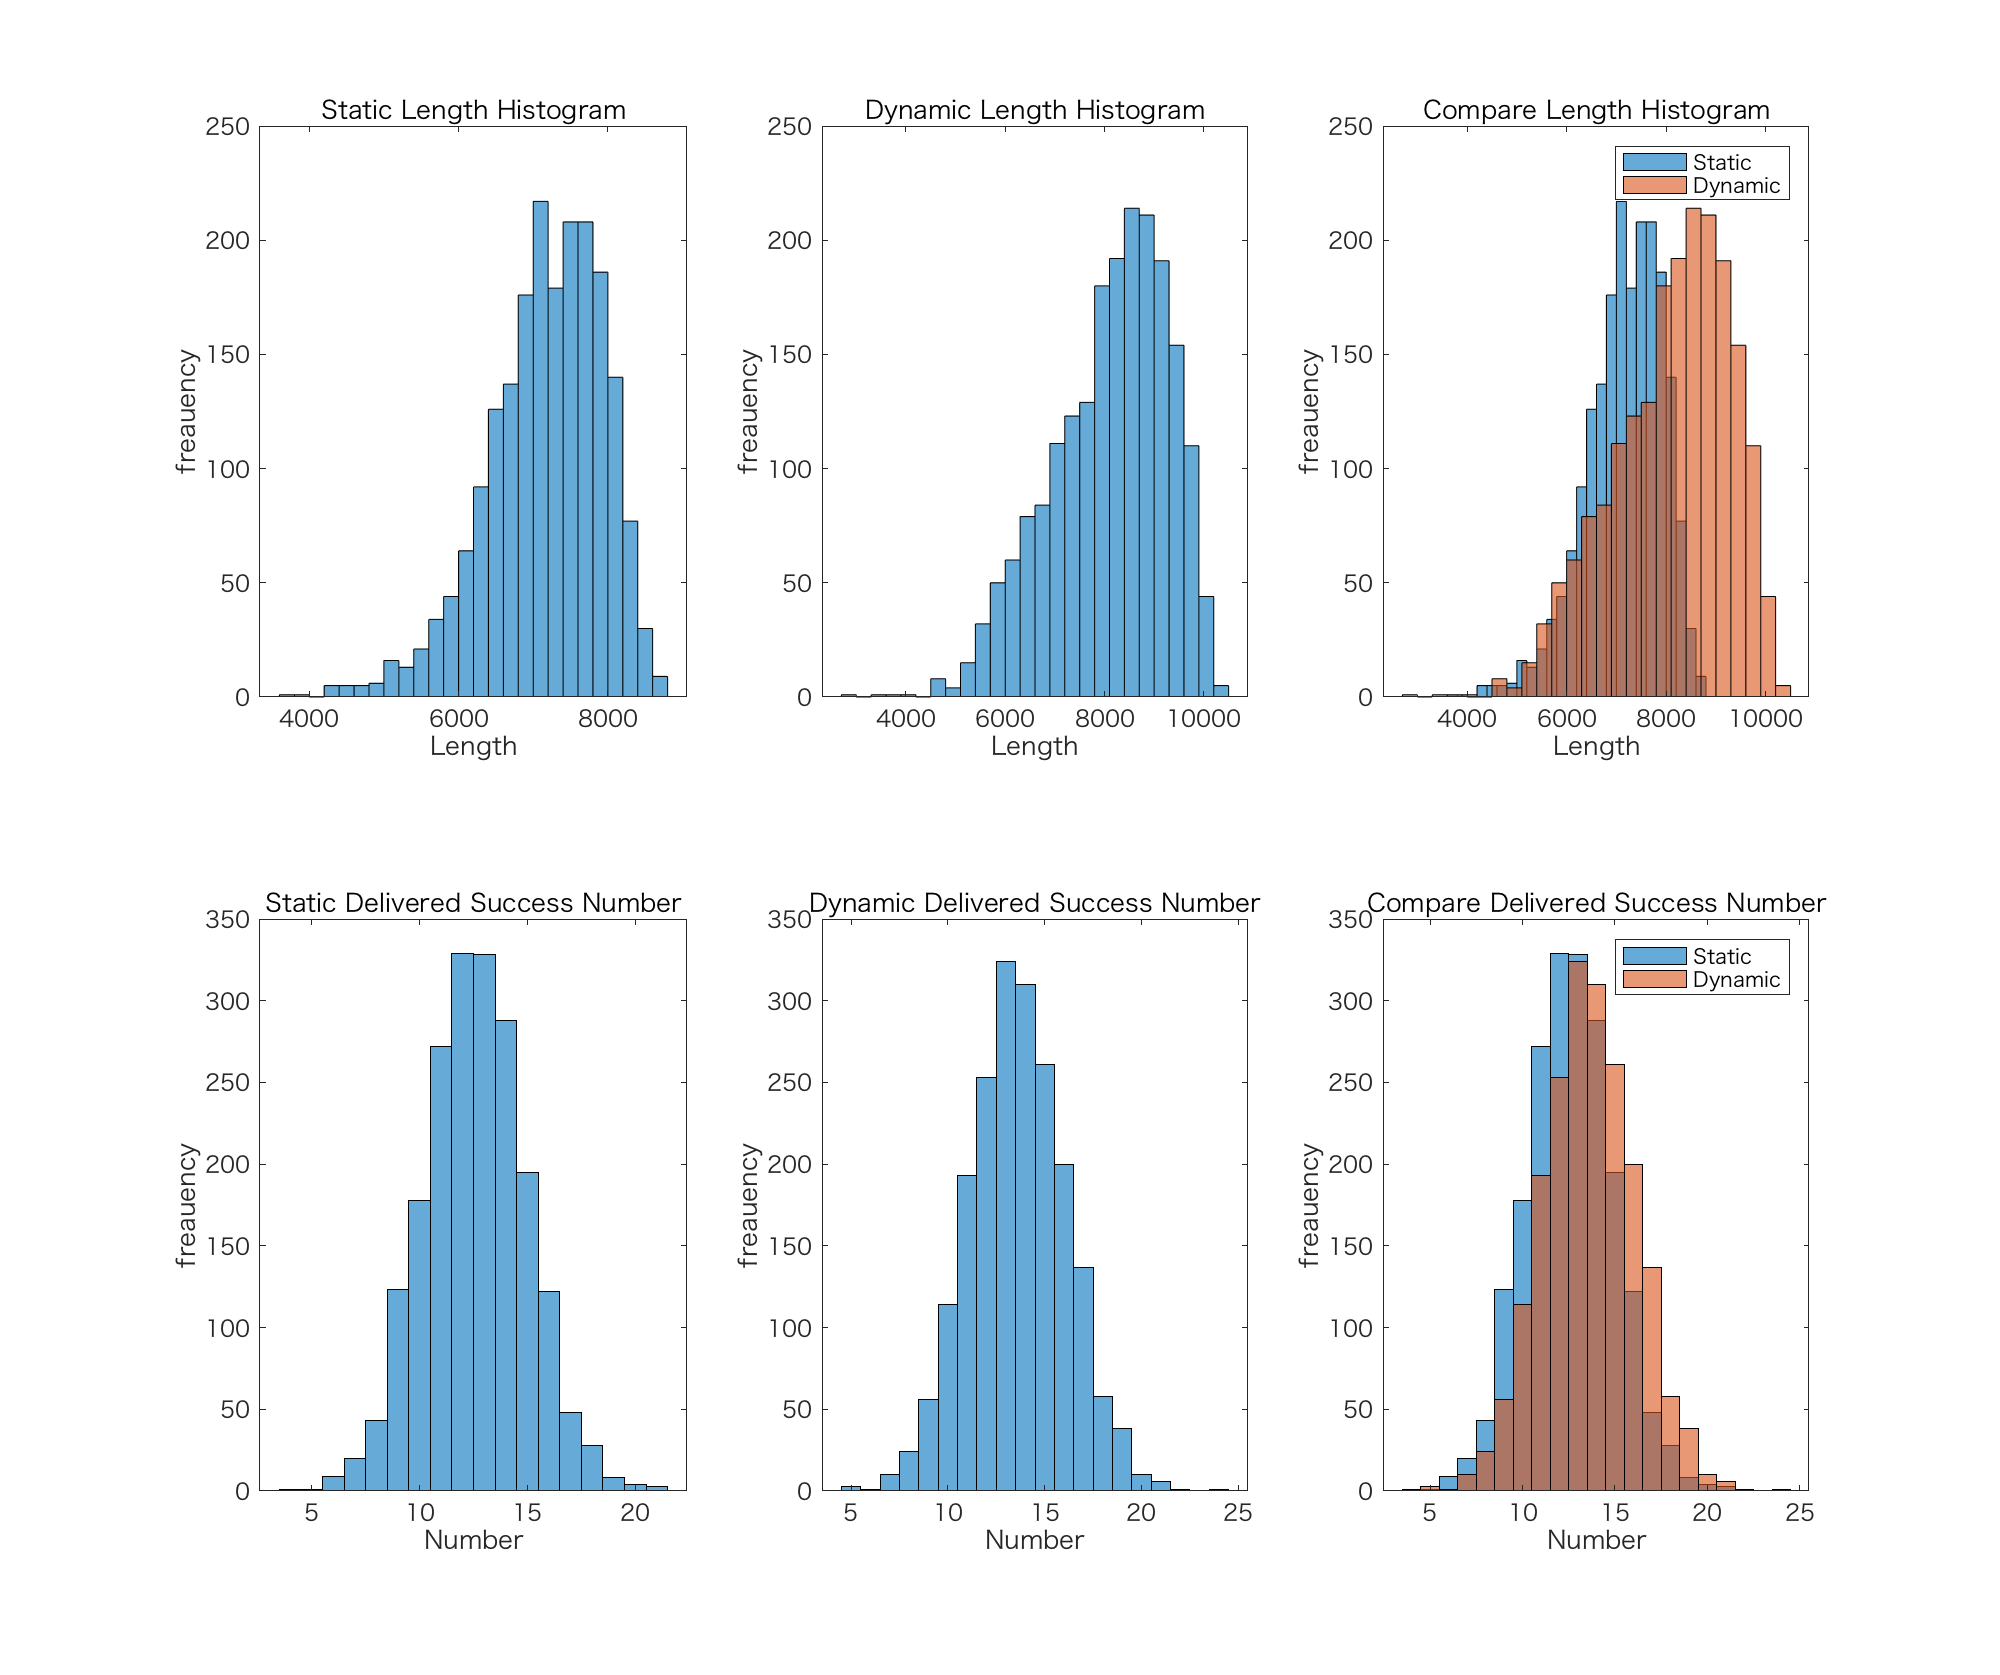
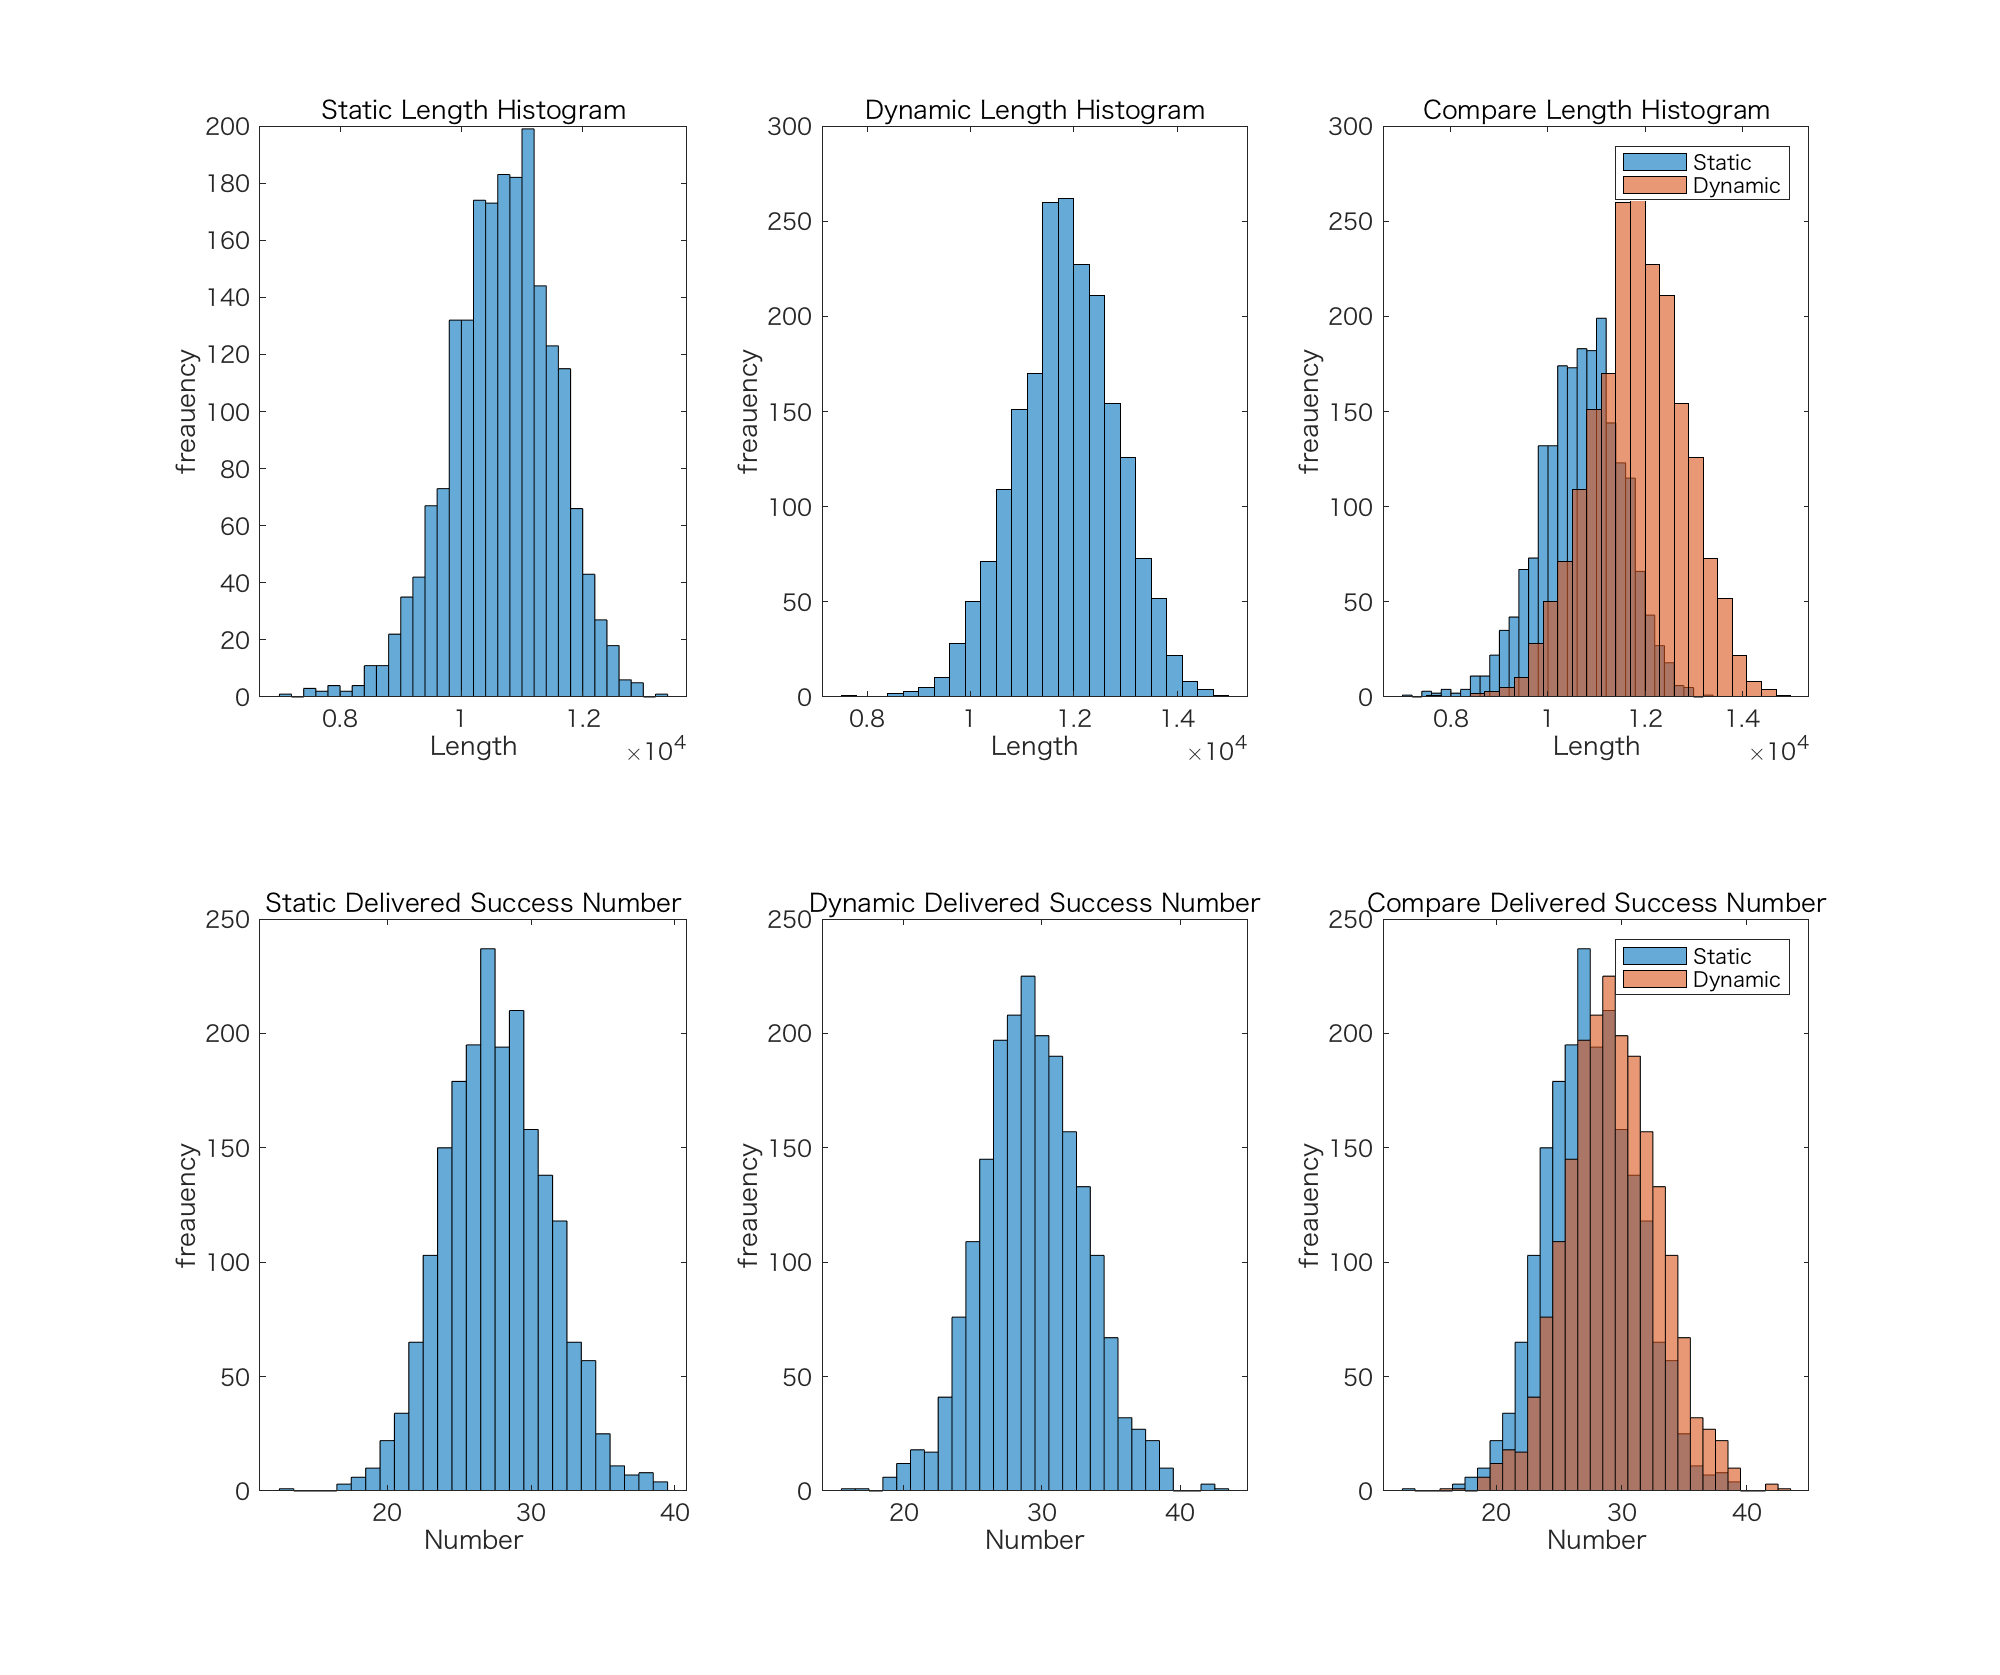
no message

diff --git a/main.m b/main.m
@@ -4,7 +4,7 @@ close all;
 tic;
 
 %% Problem Definition
-N=30;   % Number of House
+N=80;   % Number of House
 fix=0;  % 0/1 value. 0: generate random structure with N. 1: Use Previous Setting.
 
 model=CreateModel(fix,N);
@@ -12,7 +12,7 @@ model=CreateModel(fix,N);
 
 %% ACO Parameters
 
-par.MaxIt=300;      % Maximum Number of Iterations
+par.MaxIt=800;      % Maximum Number of Iterations
 
 par.nAnt=50;        % Number of Ants (Population Size)
 
@@ -29,7 +29,7 @@ par.gamma=1/4;        % Priori Probability Weight
 par.rho=0.1;       % Evaporation Rate
 
 step=numel(model.P(:,1));
-L=0.4*par.aL*model.n;
+L=0.5*par.aL*model.n;
 par.v=L/step;           % Vehicle Average Velocity [m/min] (For considering simulation time cost, we don't use real value, but we define this velocity to deliver the final package at 22:00)
 
 
@@ -66,6 +66,6 @@ RealTour.Sta = SkipTour(StaBestSol,HPTour.Sta);
 RealTour.Dyn = SkipTour(DynBestSol,HPTour.Dyn);
 PlotSkipSolution(StaBestSol,DynBestSol,RealTour,model)
 
-PlotHistogram(StaBestSol,DynBestSol,HPTour,model,par.aL,N)
+PlotHistogram(StaBestSol,DynBestSol,HPTour,model,par.aL)
 
 toc;

diff --git a/PlotHistogram.m b/PlotHistogram.m
@@ -1,4 +1,4 @@
-function PlotHistogram(StaBestSol,DynBestSol,HPTour,model,aL,N)
+function PlotHistogram(StaBestSol,DynBestSol,HPTour,model,aL)
 for i=1:2000
 RealTour.Sta = SkipTour(StaBestSol,HPTour.Sta);
 Cost.Sta = TourLength(RealTour.Sta,model);
@@ -57,19 +57,17 @@ saveas(gcf,[pwd '/output/CompareHistogram.png'])
 %% 
 for i=1:2000
 RealTour.Sta = SkipTour(StaBestSol,HPTour.Sta);
-Cost.Sta = RealCostFunction(RealTour.Sta,model,aL,N);
+Cost.Sta = RealCostFunction(RealTour.Sta,model,aL);
 RealTour.Dyn = SkipTour(DynBestSol,HPTour.Sta);
-Cost.Dyn = RealCostFunction(RealTour.Dyn,model,aL,N);
+Cost.Dyn = RealCostFunction(RealTour.Dyn,model,aL);
 h(1,i)=Cost.Dyn/Cost.Sta;
 end
 M=mean(h);
 V=var(h);
 S=skewness(h);
-disp(M);
-disp(V);
-disp(S);
 figure
 hist = histogram(h);
+title({'Ratio  Dynamic/Static Cost ';strcat('Mean: ',num2str(M),' Variance: ',num2str(V),' Skewness: ',num2str(S))})
 hist.Normalization = 'probability';
 
 

diff --git a/PlotCompare.m b/PlotCompare.m
@@ -31,7 +31,9 @@ a4=subplot(2,2,4);
 hold on;
 plot(sort(HPTour.Dyn,'descend'),'LineWidth',2);
 plot(sort(HPTour.Sta,'descend'),'LineWidth',2);
-title('Home-Probability')
+title({'Home-Probability';...
+    strcat(' Dynamic Success Rate: ',num2str(sum(HPTour.Dyn/model.n)));...
+    strcat(' Static Success Rate: ',num2str(sum(HPTour.Sta/model.n)))})
 xlabel(a4,'House Number Sorted in Descent')
 ylabel(a4,'Probability')
 legend('Dynamic','Static')

diff --git a/RealCostFunction.m b/RealCostFunction.m
@@ -1,5 +1,5 @@
-function cost = RealCostFunction(tour,model,aL,N)
+function cost = RealCostFunction(tour,model,aL)
 
-    cost = TourLength(tour,model) + aL*(N-numel(tour));
+    cost = TourLength(tour,model) + aL*(model.n-numel(tour));
 
 end
